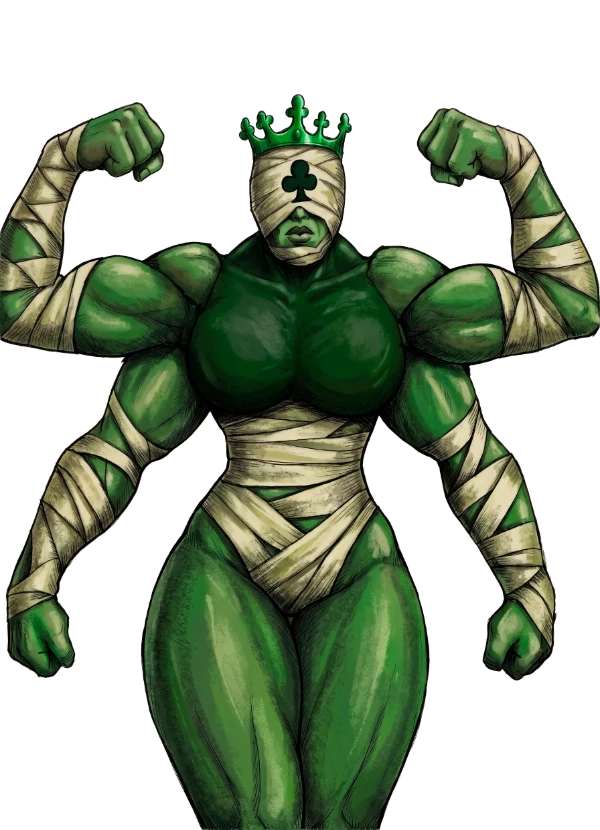
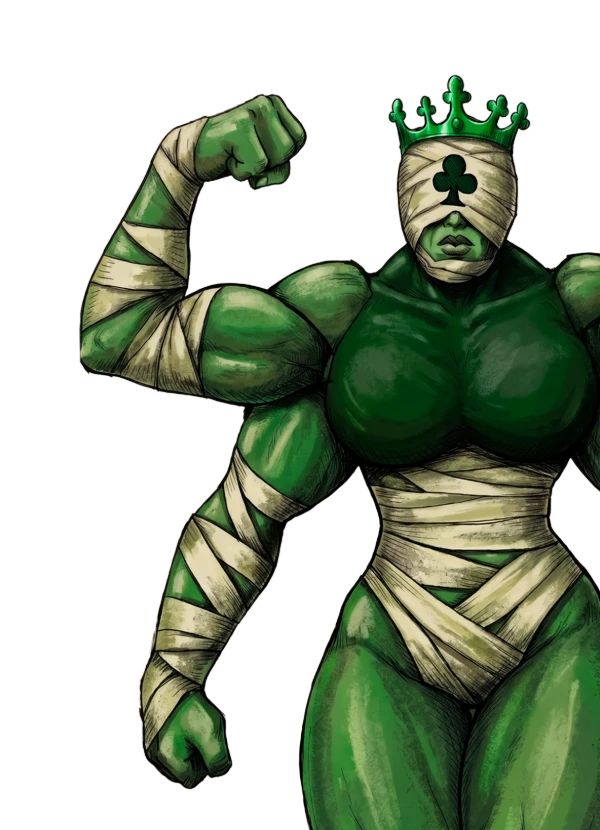
Rainha de Paus: arte nova com respiro para o indice

diff --git a/index.html b/index.html
@@ -14,7 +14,7 @@
   <link rel="preload" href="arte/menu/papelao.webp" as="image">
   <link rel="preload" href="arte/menu/naipes.webp" as="image">
   <link rel="preload" href="arte/menu/logo.webp" as="image">
-  <link rel="stylesheet" href="estilo.css?v=202610301923">
+  <link rel="stylesheet" href="estilo.css?v=202610301928">
 </head>
 <body>
   <div id="palco">
@@ -67,20 +67,20 @@
   <div id="modal" hidden></div>
   <div id="dica" hidden></div>
 
-  <script defer src="js/idioma.js?v=202610301923"></script>
-  <script defer src="js/libs.js?v=202610301923"></script>
-  <script defer src="js/motor.js?v=202610301923"></script>
-  <script defer src="js/palhacos.js?v=202610301923"></script>
-  <script defer src="js/pesos.js?v=202610301923"></script>
-  <script defer src="js/bot.js?v=202610301923"></script>
-  <script defer src="js/cartas.js?v=202610301923"></script>
-  <script defer src="js/som.js?v=202610301923"></script>
-  <script defer src="js/dados3d.js?v=202610301923"></script>
-  <script defer src="js/decks.js?v=202610301923"></script>
-  <script defer src="js/regras.js?v=202610301923"></script>
-  <script defer src="js/rede.js?v=202610301923"></script>
-  <script defer src="js/decoracao.js?v=202610301923"></script>
-  <script defer src="js/tutorial.js?v=202610301923"></script>
-  <script defer src="js/interface.js?v=202610301923"></script>
+  <script defer src="js/idioma.js?v=202610301928"></script>
+  <script defer src="js/libs.js?v=202610301928"></script>
+  <script defer src="js/motor.js?v=202610301928"></script>
+  <script defer src="js/palhacos.js?v=202610301928"></script>
+  <script defer src="js/pesos.js?v=202610301928"></script>
+  <script defer src="js/bot.js?v=202610301928"></script>
+  <script defer src="js/cartas.js?v=202610301928"></script>
+  <script defer src="js/som.js?v=202610301928"></script>
+  <script defer src="js/dados3d.js?v=202610301928"></script>
+  <script defer src="js/decks.js?v=202610301928"></script>
+  <script defer src="js/regras.js?v=202610301928"></script>
+  <script defer src="js/rede.js?v=202610301928"></script>
+  <script defer src="js/decoracao.js?v=202610301928"></script>
+  <script defer src="js/tutorial.js?v=202610301928"></script>
+  <script defer src="js/interface.js?v=202610301928"></script>
 </body>
 </html>

diff --git a/js/cartas.js b/js/cartas.js
@@ -34,7 +34,7 @@ window.SS = window.SS || {};
   // Borda preta na beirada da carta: a do desenho é fina demais (cerca de 1 px numa carta da mão) e sumia.
   const BORDA = '<rect x="2.2" y="2.2" width="195.6" height="275.6" rx="15" fill="none" stroke="#141414" stroke-width="4.5"/>';
   // Versão das imagens das cartas (trocar quando um arquivo mudar com o mesmo nome, para o navegador não usar o antigo).
-  const V_ARTE = '?v=11';
+  const V_ARTE = '?v=12';
 
   // Fundo da carta: o creme liso de sempre. Com fundos desenhados (arte/cartas/fundo-<letra>.webp, feitos no gabarito
   // arte/cartas/gabarito), ponha as letras deles aqui: cada carta pega sempre a mesma variação (rank + naipe).
